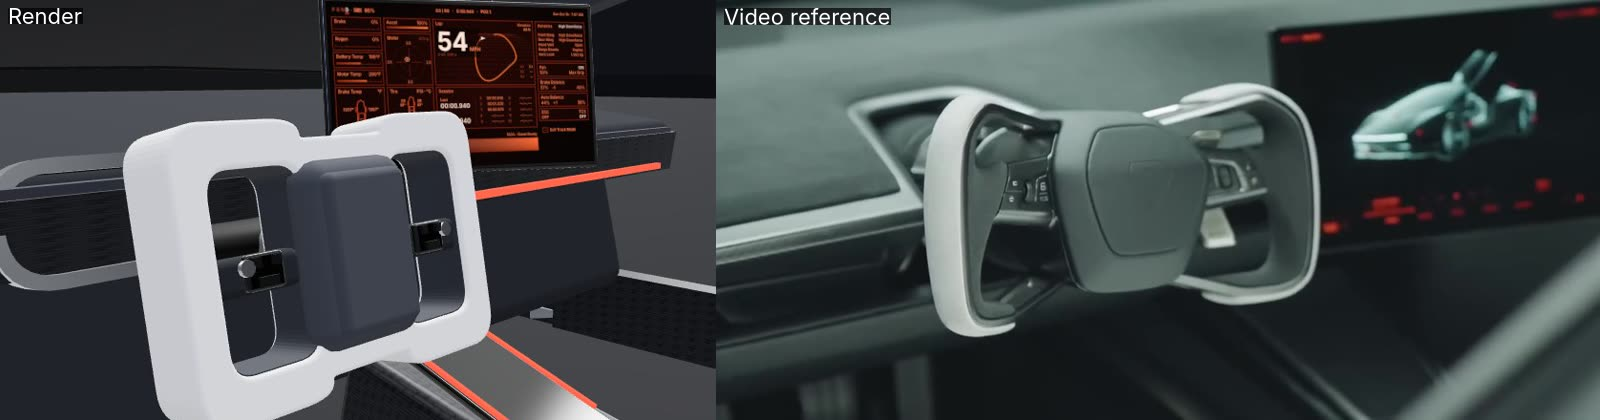
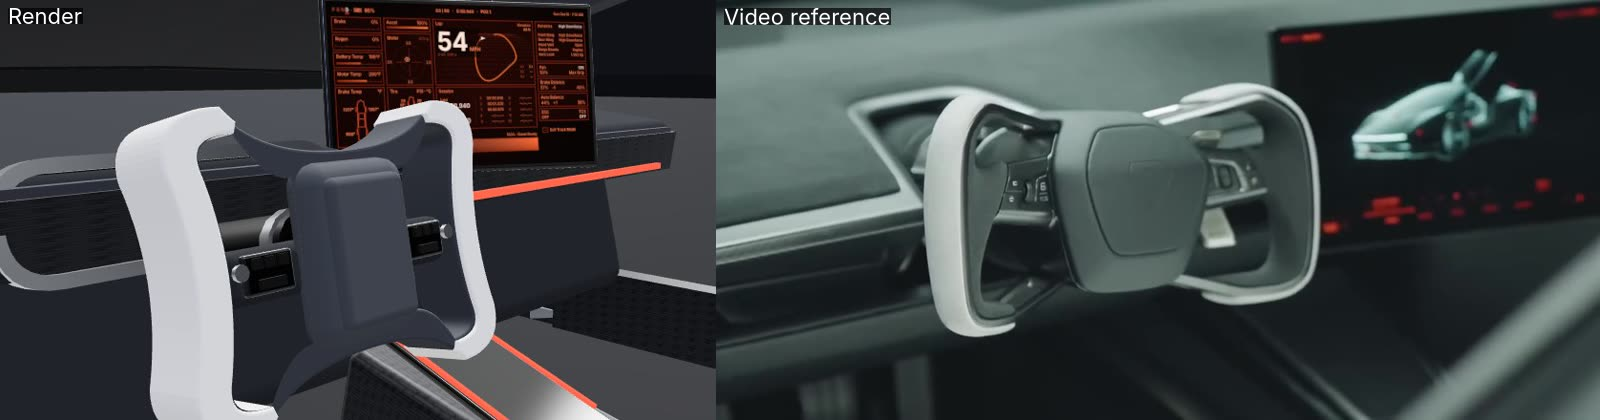
Yoke: grey figure-8 body with flared white grips and a button crossbar through the middle
Claude-Session: https://claude.ai/code/session_01GbkWYSAfWPfAWv1QqvCTVo

diff --git a/src/car.js b/src/car.js
@@ -943,10 +943,11 @@ export class RoadsterModel {
     }
     b.build(m, this.mat);
 
-    // yoke: a squared sideways figure 8 (a boxy infinity sign), as in the closer-look video. Two tall
-    // white grip loops joined through the middle by a shallower bridge, so the top and bottom edges dip
-    // between the grips; each loop has its own opening with a dark grey inner lining. A large grey
-    // pillowed pad sits on the bridge, with black button clusters on spokes across each opening.
+    // yoke, after the closer-look video: a dark grey body shaped like a sideways figure 8 (two loops
+    // joined through the middle), whose grips flare outward at the top and bottom corners. Only the
+    // outer grips are wrapped in white; the bars through the middle stay grey. A horizontal grey
+    // crossbar carrying the button clusters joins the two grips straight through the centre, and the
+    // large pillowed pad sits on it.
     const yokeMount = new THREE.Group();
     yokeMount.position.set(0.32, 0.125, z0);
     yokeMount.rotation.z = -0.2; // top leans forward, column runs forward and down
@@ -954,71 +955,54 @@ export class RoadsterModel {
     yokeMount.add(yoke);
     {
       const yb = new Batch();
-      const H = 0.23, Hw = 0.196, x1 = 0.05, x2 = 0.172, rO = 0.03, f = 0.01, depth = 0.07;
+      const depth = 0.066;
       const ext = (shape, d, bevel) => {
-        const g = new THREE.ExtrudeGeometry(shape, { depth: d, bevelEnabled: bevel > 0, bevelThickness: bevel, bevelSize: bevel, bevelSegments: 3, curveSegments: 10 });
+        const g = new THREE.ExtrudeGeometry(shape, { depth: d, bevelEnabled: bevel > 0, bevelThickness: bevel, bevelSize: bevel, bevelSegments: 3, curveSegments: 12 });
         g.translate(0, 0, -d / 2);
         g.rotateY(PI / 2);
         return g;
       };
-      // outer outline: right lobe, then the mirrored left lobe, joined by the bridge (|y| <= Hw/2)
-      const half = (sh, sx) => {
+      // one lobe's outline: from the middle bar's top, up into the flared ear, down the inward-curving
+      // outer grip, round the bottom ear and back to the bar's bottom (sx = side). Inset by t for the
+      // opening, which then closes along x0 at the pad.
+      const OUT = { H: 0.25, Hw: 0.172, x1: 0.06, x2: 0.166, rO: 0.042, fl: 0.014 };
+      const lobe = (sx, t, x0) => {
         const X = (x) => x * sx;
-        sh.lineTo(X(x1 - f), Hw / 2);
-        sh.quadraticCurveTo(X(x1), Hw / 2, X(x1), Hw / 2 + f * 0.6);
-        sh.quadraticCurveTo(X(x1), H / 2, X(x1 + rO), H / 2);
-        sh.lineTo(X(x2 - rO), H / 2);
-        sh.quadraticCurveTo(X(x2), H / 2, X(x2), H / 2 - rO);
-        sh.lineTo(X(x2), -H / 2 + rO);
-        sh.quadraticCurveTo(X(x2), -H / 2, X(x2 - rO), -H / 2);
-        sh.lineTo(X(x1 + rO), -H / 2);
-        sh.quadraticCurveTo(X(x1), -H / 2, X(x1), -Hw / 2 - f * 0.6);
-        sh.quadraticCurveTo(X(x1), -Hw / 2, X(x1 - f), -Hw / 2);
+        const H = OUT.H - 2 * t, Hw = OUT.Hw - 2 * t, x2 = OUT.x2 - t * 1.6, rO = Math.max(0.012, OUT.rO - t), fl = OUT.fl;
+        const P = new THREE.Path();
+        P.moveTo(X(x0), Hw / 2);
+        P.quadraticCurveTo(X(OUT.x1 + 0.03), Hw / 2, X(x2 - rO), H / 2);       // bar rises into the ear
+        P.quadraticCurveTo(X(x2 + fl), H / 2, X(x2 + fl * 0.6), H / 2 - rO);   // flared top corner
+        P.quadraticCurveTo(X(x2 - 0.016), 0, X(x2 + fl * 0.6), -H / 2 + rO);   // outer edge curves in
+        P.quadraticCurveTo(X(x2 + fl), -H / 2, X(x2 - rO), -H / 2);            // flared bottom corner
+        P.quadraticCurveTo(X(OUT.x1 + 0.03), -Hw / 2, X(x0), -Hw / 2);
+        return P.getPoints(14);
       };
-      const outline = new THREE.Shape();
-      outline.moveTo(0, Hw / 2);
-      half(outline, 1);
-      outline.lineTo(0, -Hw / 2);
-      // left lobe, walked bottom to top so the outline stays one loop
-      const X = (x) => -x;
-      outline.lineTo(X(x1 - f), -Hw / 2);
-      outline.quadraticCurveTo(X(x1), -Hw / 2, X(x1), -Hw / 2 - f * 0.6);
-      outline.quadraticCurveTo(X(x1), -H / 2, X(x1 + rO), -H / 2);
-      outline.lineTo(X(x2 - rO), -H / 2);
-      outline.quadraticCurveTo(X(x2), -H / 2, X(x2), -H / 2 + rO);
-      outline.lineTo(X(x2), H / 2 - rO);
-      outline.quadraticCurveTo(X(x2), H / 2, X(x2 - rO), H / 2);
-      outline.lineTo(X(x1 + rO), H / 2);
-      outline.quadraticCurveTo(X(x1), H / 2, X(x1), Hw / 2 + f * 0.6);
-      outline.quadraticCurveTo(X(x1), Hw / 2, X(x1 - f), Hw / 2);
-      outline.lineTo(0, Hw / 2);
-      // one opening per lobe: between the pad and the grip, under the slim top and bottom bars
-      const hx0 = 0.05, hx1 = x2 - 0.026, hh = Hw - 0.03, hc = (hx0 + hx1) / 2, hw = hx1 - hx0;
-      const hole = (sx, grow, P) => {
-        const sh = roundRect(P, hw + grow, hh + grow, 0.026 + grow / 2);
-        const pts = sh.getPoints(10).map((v) => new THREE.Vector2(v.x + sx * hc, v.y));
-        return pts;
-      };
-      for (const sx of [1, -1]) outline.holes.push(new THREE.Path(hole(sx, 0.004, new THREE.Path())));
-      yb.add('white', ext(outline, depth - 0.008, 0.004));
-      // dark grey inner lining of each opening, a wide band when seen at an angle
+      const T = 0.017, HX0 = 0.062; // rim thickness, inner edge of each opening (beside the pad)
+      // dark grey body: right lobe top to bottom, then the left lobe bottom to top
+      const body = new THREE.Shape([...lobe(1, 0, 0), ...lobe(-1, 0, 0).reverse()]);
+      for (const sx of [1, -1]) body.holes.push(new THREE.Path(lobe(sx, T, sx * 0 + HX0)));
+      yb.add('trim', ext(body, depth - 0.006, 0.003));
+      // white wrap on the outer grips only, from ear to ear, stopping just short of each opening
+      const hx1 = OUT.x2 - 0.038;
       for (const sx of [1, -1]) {
-        const ring = new THREE.Shape(hole(sx, 0.006, new THREE.Shape()));
-        ring.holes.push(new THREE.Path(hole(sx, -0.006, new THREE.Path())));
-        yb.add('trim', ext(ring, depth - 0.012, 0));
+        const xcut = 0.112;
+        const outer = lobe(sx, -0.0015, 0).filter((v) => Math.abs(v.x) >= xcut);
+        const inner = lobe(sx, T - 0.003, HX0).filter((v) => Math.abs(v.x) >= xcut).reverse();
+        yb.add('white', ext(new THREE.Shape([...outer, ...inner]), depth + 0.002, 0.003));
       }
-      // large pillowed centre pad on the bridge, slightly proud of the rim toward the driver
-      const pw = 0.12, ph = 0.165;
-      yb.rbox('padGray', 0.045, ph, pw, 0.026, -0.03, 0, 0);
-      yb.rbox('padGray', 0.02, ph - 0.026, pw - 0.026, 0.012, -0.05, 0, 0);
+      // horizontal crossbar through the middle, grip to grip, carrying the button clusters
+      yb.rbox('alcantara', 0.03, 0.046, 2 * hx1 + 0.01, 0.012, -0.008, -0.006, 0);
+      // large pillowed centre pad on the crossbar, slightly proud toward the driver
+      const pw = 0.12, ph = 0.16;
+      yb.rbox('padGray', 0.045, ph, pw, 0.03, -0.03, 0, 0);
+      yb.rbox('padGray', 0.02, ph - 0.03, pw - 0.03, 0.014, -0.05, 0, 0);
       for (const s of [1, -1]) {
-        // horizontal spoke across the opening to the grip, carrying a black button cluster
-        const z0s = pw / 2 - 0.004, z1s = hx1 + 0.004, zc = (z0s + z1s) / 2;
-        yb.rbox('alcantara', 0.026, 0.032, z1s - z0s, 0.008, -0.012, -0.004, s * zc);
-        yb.rbox('gloss', 0.008, 0.03, 0.038, 0.005, -0.028, -0.002, s * (zc - 0.004));
-        for (const dz of [-0.01, 0.01]) yb.box('black', 0.006, 0.008, 0.008, -0.033, 0.006, s * (zc - 0.004 + dz));
-        yb.box('black', 0.006, 0.008, 0.018, -0.033, -0.01, s * (zc - 0.004));
-        yb.add('silver', new THREE.CylinderGeometry(0.007, 0.007, 0.005, 10), -0.034, 0.003, s * (zc + 0.016), 0, 0, PI / 2);
+        const zc = (pw / 2 + hx1) / 2;
+        yb.rbox('gloss', 0.008, 0.034, 0.05, 0.006, -0.026, -0.004, s * zc);
+        for (const dz of [-0.013, 0, 0.013]) yb.box('black', 0.006, 0.009, 0.009, -0.031, 0.005, s * (zc + dz));
+        yb.box('black', 0.006, 0.008, 0.026, -0.031, -0.012, s * zc);
+        yb.add('silver', new THREE.CylinderGeometry(0.007, 0.007, 0.005, 10), -0.032, 0.0, s * (zc + 0.03), 0, 0, PI / 2);
       }
       yb.build(yoke, this.mat);
     }
